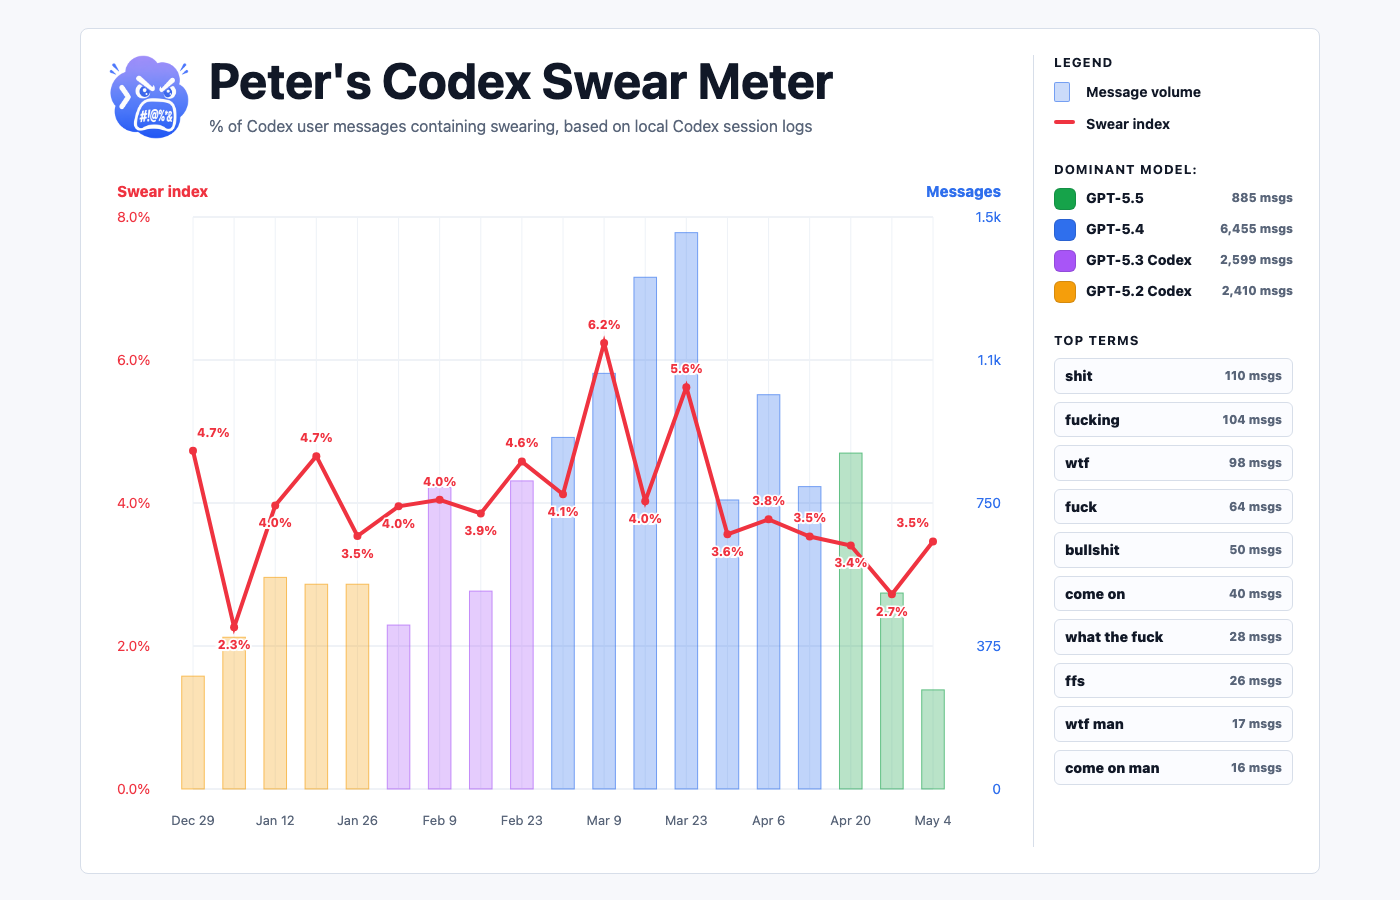
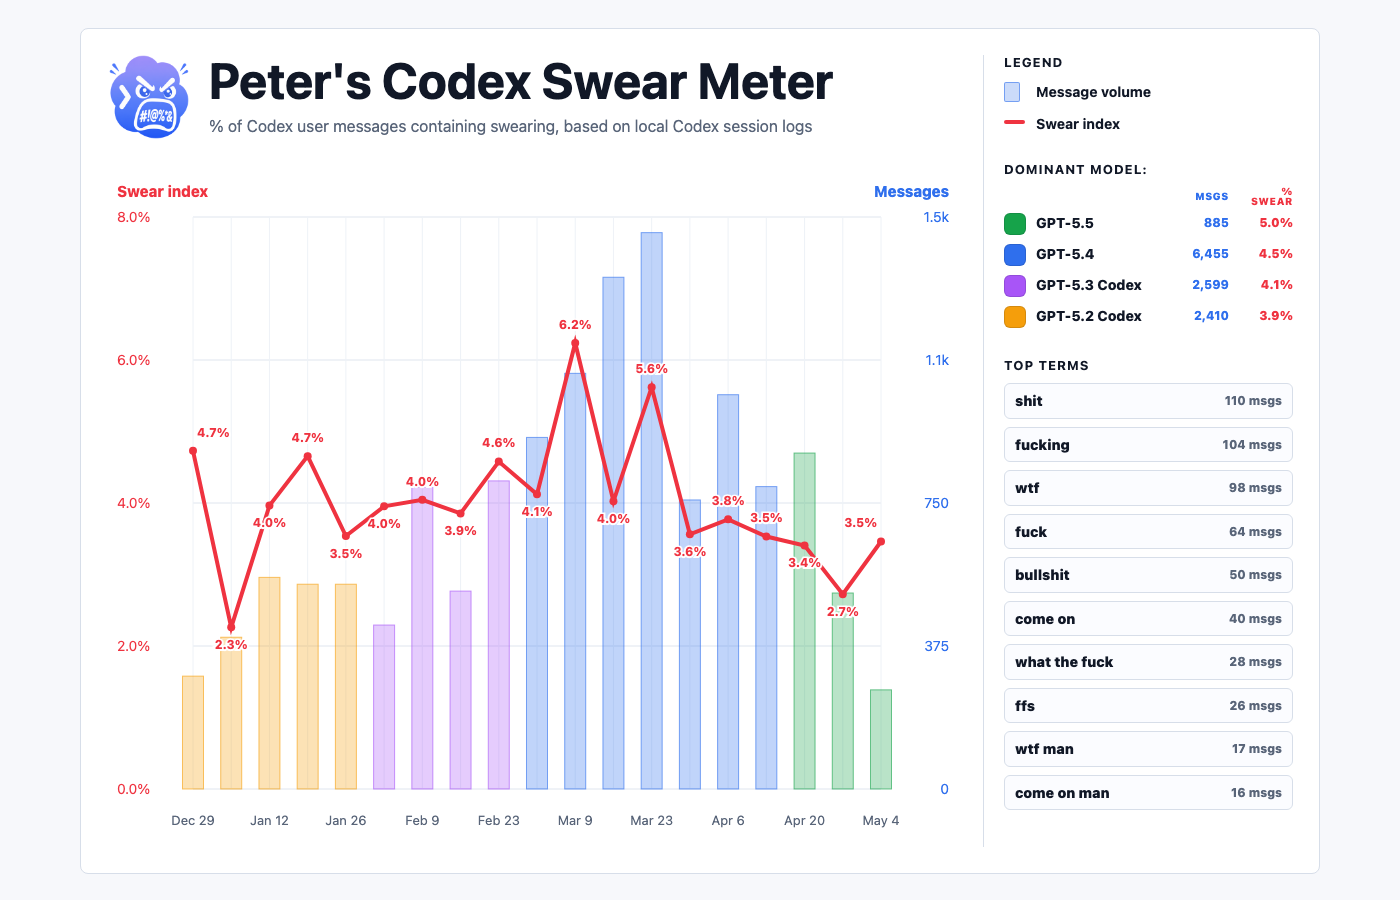
Show model swear rates in chart legend

diff --git a/skills/codex-swear-meter/scripts/codex_swear_meter.py b/skills/codex-swear-meter/scripts/codex_swear_meter.py
@@ -163,8 +163,8 @@ SPICE_TIMELINE_TEMPLATE = """<!doctype html>
       padding: 26px;
       overflow: hidden;
       display: grid;
-      grid-template-columns: minmax(0, 1fr) 260px;
-      column-gap: 22px;
+      grid-template-columns: minmax(0, 1fr) 310px;
+      column-gap: 24px;
     }
 
     .chart-top {
@@ -269,11 +269,41 @@ SPICE_TIMELINE_TEMPLATE = """<!doctype html>
       line-height: 1.3;
     }
 
+    .model-columns,
     .model-list li {
       display: grid;
-      grid-template-columns: 22px minmax(0, 1fr) auto;
+      grid-template-columns: 22px minmax(0, 1fr) 70px 54px;
       align-items: center;
       gap: 10px;
+    }
+
+    .model-columns {
+      margin: -2px 0 7px;
+      color: var(--muted);
+      font-size: 10px;
+      font-weight: 900;
+      letter-spacing: 0.06em;
+      line-height: 1;
+      text-transform: uppercase;
+    }
+
+    .model-columns span {
+      text-align: right;
+    }
+
+    .model-columns span:first-child {
+      grid-column: 3;
+    }
+
+    .model-columns .model-messages-label {
+      color: var(--volume);
+    }
+
+    .model-columns .model-rate-label {
+      color: var(--signal);
+    }
+
+    .model-list li {
       color: var(--ink);
       font-size: 14px;
       font-weight: 800;
@@ -281,10 +311,20 @@ SPICE_TIMELINE_TEMPLATE = """<!doctype html>
     }
 
     .model-count {
-      color: var(--muted);
+      color: var(--volume);
       font-size: 12px;
       font-weight: 800;
       line-height: 1.2;
+      text-align: right;
+      white-space: nowrap;
+    }
+
+    .model-rate {
+      color: var(--signal);
+      font-size: 12px;
+      font-weight: 900;
+      line-height: 1.2;
+      text-align: right;
       white-space: nowrap;
     }
 
@@ -474,6 +514,10 @@ SPICE_TIMELINE_TEMPLATE = """<!doctype html>
 
           <div>
             <h2>Dominant Model:</h2>
+            <div class="model-columns" aria-hidden="true">
+              <span class="model-messages-label">Msgs</span>
+              <span class="model-rate-label">% Swear</span>
+            </div>
             <ul class="model-list" id="modelLegend"></ul>
           </div>
 
@@ -792,22 +836,25 @@ SPICE_TIMELINE_TEMPLATE = """<!doctype html>
       data.forEach((row, index) => {
         const label = row.dominantModel || "unknown";
         const color = modelColor(label);
-        if (!byModel.has(color)) byModel.set(color, { label, color, first: index, last: index, messages: 0 });
+        if (!byModel.has(color)) byModel.set(color, { label, color, first: index, last: index, messages: 0, swearIndexMessages: 0 });
         else byModel.get(color).last = index;
       });
       data.forEach(row => {
         (row.models || []).forEach(model => {
           const modelColorKey = modelColor(model.label || "unknown");
           if (!byModel.has(modelColorKey)) return;
-          byModel.get(modelColorKey).messages += Number(model.messages || 0);
+          const current = byModel.get(modelColorKey);
+          current.messages += Number(model.messages || 0);
+          current.swearIndexMessages += Number(model.swearIndexMessages || 0);
         });
       });
       const models = Array.from(byModel.values()).sort((a, b) => b.last - a.last);
       document.getElementById("modelLegend").innerHTML = models.map(model => `
-        <li aria-label="${escapeHTML(`${shortModel(model.label)}: ${model.messages.toLocaleString()} messages`)}">
+        <li aria-label="${escapeHTML(`${shortModel(model.label)}: ${model.messages.toLocaleString()} messages, ${pct(model.messages ? model.swearIndexMessages / model.messages : 0)} swear index`)}">
           <i class="dot-key" title="${escapeHTML(shortModel(model.label))}" style="background: ${model.color}"></i>
           <span class="model-name">${escapeHTML(shortModel(model.label))}</span>
-          <span class="model-count">${model.messages.toLocaleString()} msgs</span>
+          <span class="model-count">${model.messages.toLocaleString()}</span>
+          <span class="model-rate">${pct(model.messages ? model.swearIndexMessages / model.messages : 0)}</span>
         </li>
       `).join("");
     }
@@ -1427,6 +1474,7 @@ def analyze_records(
     model_swear_index: Counter[str] = Counter()
     monthly_models: defaultdict[str, Counter[str]] = defaultdict(Counter)
     weekly_models: defaultdict[str, Counter[str]] = defaultdict(Counter)
+    weekly_model_swear_index: defaultdict[str, Counter[str]] = defaultdict(Counter)
     cwd_messages: Counter[str] = Counter()
     thread_messages: Counter[tuple[str, str]] = Counter()
 
@@ -1449,6 +1497,7 @@ def analyze_records(
                 model_swear[current_model] += 1
             if any(is_swear_index_hit(hit, spice_lexicon) for hit in spice_hits):
                 model_swear_index[current_model] += 1
+                weekly_model_swear_index[week][current_model] += 1
             write_spice_record(
                 record,
                 spice_hits,
@@ -1575,6 +1624,7 @@ def analyze_records(
         weekly_spice,
         monthly_models,
         weekly_models,
+        weekly_model_swear_index,
         model_messages,
         model_spicy,
         model_swear,
@@ -2196,6 +2246,7 @@ def write_spice_timeline_html(
     weekly_spice: dict[str, Counter[str]],
     _monthly_models: dict[str, Counter[str]],
     weekly_models: dict[str, Counter[str]],
+    weekly_model_swear_index: dict[str, Counter[str]],
     _model_messages: Counter[str],
     _model_spicy: Counter[str],
     _model_swear: Counter[str],
@@ -2204,7 +2255,7 @@ def write_spice_timeline_html(
     spice_lexicon: dict[str, Any],
     owner_name: str | None,
 ) -> None:
-    weekly = build_html_period_rows(weekly_spice, weekly_models)
+    weekly = build_html_period_rows(weekly_spice, weekly_models, weekly_model_swear_index)
     examples = top_swear_index_examples(
         spice_term_messages,
         spice_term_occurrences,
@@ -2263,6 +2314,7 @@ def top_swear_index_examples(
 def build_html_period_rows(
     spice_periods: dict[str, Counter[str]],
     model_periods: dict[str, Counter[str]],
+    model_swear_index_periods: dict[str, Counter[str]],
 ) -> list[dict[str, Any]]:
     rows: list[dict[str, Any]] = []
     for period in sorted(spice_periods):
@@ -2282,7 +2334,11 @@ def build_html_period_rows(
                 "monthKey": f"{start_date.year}-{start_date.month:02d}" if start_date else "",
                 "total": total,
                 "models": [
-                    {"label": label or "unknown", "messages": count}
+                    {
+                        "label": label or "unknown",
+                        "messages": count,
+                        "swearIndexMessages": model_swear_index_periods.get(period, Counter())[label],
+                    }
                     for label, count in model_periods.get(period, Counter()).most_common()
                 ],
                 "spicyMessages": spice_counts["spicy_messages"],

diff --git a/src/codex_log_tone_audit/audit.py b/src/codex_log_tone_audit/audit.py
@@ -162,8 +162,8 @@ SPICE_TIMELINE_TEMPLATE = """<!doctype html>
       padding: 26px;
       overflow: hidden;
       display: grid;
-      grid-template-columns: minmax(0, 1fr) 260px;
-      column-gap: 22px;
+      grid-template-columns: minmax(0, 1fr) 310px;
+      column-gap: 24px;
     }
 
     .chart-top {
@@ -268,11 +268,41 @@ SPICE_TIMELINE_TEMPLATE = """<!doctype html>
       line-height: 1.3;
     }
 
+    .model-columns,
     .model-list li {
       display: grid;
-      grid-template-columns: 22px minmax(0, 1fr) auto;
+      grid-template-columns: 22px minmax(0, 1fr) 70px 54px;
       align-items: center;
       gap: 10px;
+    }
+
+    .model-columns {
+      margin: -2px 0 7px;
+      color: var(--muted);
+      font-size: 10px;
+      font-weight: 900;
+      letter-spacing: 0.06em;
+      line-height: 1;
+      text-transform: uppercase;
+    }
+
+    .model-columns span {
+      text-align: right;
+    }
+
+    .model-columns span:first-child {
+      grid-column: 3;
+    }
+
+    .model-columns .model-messages-label {
+      color: var(--volume);
+    }
+
+    .model-columns .model-rate-label {
+      color: var(--signal);
+    }
+
+    .model-list li {
       color: var(--ink);
       font-size: 14px;
       font-weight: 800;
@@ -280,10 +310,20 @@ SPICE_TIMELINE_TEMPLATE = """<!doctype html>
     }
 
     .model-count {
-      color: var(--muted);
+      color: var(--volume);
       font-size: 12px;
       font-weight: 800;
       line-height: 1.2;
+      text-align: right;
+      white-space: nowrap;
+    }
+
+    .model-rate {
+      color: var(--signal);
+      font-size: 12px;
+      font-weight: 900;
+      line-height: 1.2;
+      text-align: right;
       white-space: nowrap;
     }
 
@@ -473,6 +513,10 @@ SPICE_TIMELINE_TEMPLATE = """<!doctype html>
 
           <div>
             <h2>Dominant Model:</h2>
+            <div class="model-columns" aria-hidden="true">
+              <span class="model-messages-label">Msgs</span>
+              <span class="model-rate-label">% Swear</span>
+            </div>
             <ul class="model-list" id="modelLegend"></ul>
           </div>
 
@@ -791,22 +835,25 @@ SPICE_TIMELINE_TEMPLATE = """<!doctype html>
       data.forEach((row, index) => {
         const label = row.dominantModel || "unknown";
         const color = modelColor(label);
-        if (!byModel.has(color)) byModel.set(color, { label, color, first: index, last: index, messages: 0 });
+        if (!byModel.has(color)) byModel.set(color, { label, color, first: index, last: index, messages: 0, swearIndexMessages: 0 });
         else byModel.get(color).last = index;
       });
       data.forEach(row => {
         (row.models || []).forEach(model => {
           const modelColorKey = modelColor(model.label || "unknown");
           if (!byModel.has(modelColorKey)) return;
-          byModel.get(modelColorKey).messages += Number(model.messages || 0);
+          const current = byModel.get(modelColorKey);
+          current.messages += Number(model.messages || 0);
+          current.swearIndexMessages += Number(model.swearIndexMessages || 0);
         });
       });
       const models = Array.from(byModel.values()).sort((a, b) => b.last - a.last);
       document.getElementById("modelLegend").innerHTML = models.map(model => `
-        <li aria-label="${escapeHTML(`${shortModel(model.label)}: ${model.messages.toLocaleString()} messages`)}">
+        <li aria-label="${escapeHTML(`${shortModel(model.label)}: ${model.messages.toLocaleString()} messages, ${pct(model.messages ? model.swearIndexMessages / model.messages : 0)} swear index`)}">
           <i class="dot-key" title="${escapeHTML(shortModel(model.label))}" style="background: ${model.color}"></i>
           <span class="model-name">${escapeHTML(shortModel(model.label))}</span>
-          <span class="model-count">${model.messages.toLocaleString()} msgs</span>
+          <span class="model-count">${model.messages.toLocaleString()}</span>
+          <span class="model-rate">${pct(model.messages ? model.swearIndexMessages / model.messages : 0)}</span>
         </li>
       `).join("");
     }
@@ -1426,6 +1473,7 @@ def analyze_records(
     model_swear_index: Counter[str] = Counter()
     monthly_models: defaultdict[str, Counter[str]] = defaultdict(Counter)
     weekly_models: defaultdict[str, Counter[str]] = defaultdict(Counter)
+    weekly_model_swear_index: defaultdict[str, Counter[str]] = defaultdict(Counter)
     cwd_messages: Counter[str] = Counter()
     thread_messages: Counter[tuple[str, str]] = Counter()
 
@@ -1448,6 +1496,7 @@ def analyze_records(
                 model_swear[current_model] += 1
             if any(is_swear_index_hit(hit, spice_lexicon) for hit in spice_hits):
                 model_swear_index[current_model] += 1
+                weekly_model_swear_index[week][current_model] += 1
             write_spice_record(
                 record,
                 spice_hits,
@@ -1574,6 +1623,7 @@ def analyze_records(
         weekly_spice,
         monthly_models,
         weekly_models,
+        weekly_model_swear_index,
         model_messages,
         model_spicy,
         model_swear,
@@ -2195,6 +2245,7 @@ def write_spice_timeline_html(
     weekly_spice: dict[str, Counter[str]],
     _monthly_models: dict[str, Counter[str]],
     weekly_models: dict[str, Counter[str]],
+    weekly_model_swear_index: dict[str, Counter[str]],
     _model_messages: Counter[str],
     _model_spicy: Counter[str],
     _model_swear: Counter[str],
@@ -2203,7 +2254,7 @@ def write_spice_timeline_html(
     spice_lexicon: dict[str, Any],
     owner_name: str | None,
 ) -> None:
-    weekly = build_html_period_rows(weekly_spice, weekly_models)
+    weekly = build_html_period_rows(weekly_spice, weekly_models, weekly_model_swear_index)
     examples = top_swear_index_examples(
         spice_term_messages,
         spice_term_occurrences,
@@ -2262,6 +2313,7 @@ def top_swear_index_examples(
 def build_html_period_rows(
     spice_periods: dict[str, Counter[str]],
     model_periods: dict[str, Counter[str]],
+    model_swear_index_periods: dict[str, Counter[str]],
 ) -> list[dict[str, Any]]:
     rows: list[dict[str, Any]] = []
     for period in sorted(spice_periods):
@@ -2281,7 +2333,11 @@ def build_html_period_rows(
                 "monthKey": f"{start_date.year}-{start_date.month:02d}" if start_date else "",
                 "total": total,
                 "models": [
-                    {"label": label or "unknown", "messages": count}
+                    {
+                        "label": label or "unknown",
+                        "messages": count,
+                        "swearIndexMessages": model_swear_index_periods.get(period, Counter())[label],
+                    }
                     for label, count in model_periods.get(period, Counter()).most_common()
                 ],
                 "spicyMessages": spice_counts["spicy_messages"],

diff --git a/tests/test_audit.py b/tests/test_audit.py
@@ -1,12 +1,14 @@
 import json
 import tempfile
 import unittest
+from collections import Counter
 from pathlib import Path
 
 from codex_log_tone_audit.audit import (
     DEFAULT_LEXICON,
     DEFAULT_LOGO,
     DEFAULT_SWEAR_LEXICON,
+    build_html_period_rows,
     chart_title,
     compile_patterns,
     diff_new_records,
@@ -104,6 +106,16 @@ class AuditTests(unittest.TestCase):
 
     def test_week_key(self):
         self.assertEqual(week_key("2026-03-11T17:44:49.123Z"), "2026-W11")
+
+    def test_html_period_rows_include_model_swear_index_counts(self):
+        rows = build_html_period_rows(
+            {"2026-W01": Counter({"total_messages": 10, "swear_index_messages": 2})},
+            {"2026-W01": Counter({"gpt-5.5 (xhigh)": 10})},
+            {"2026-W01": Counter({"gpt-5.5 (xhigh)": 2})},
+        )
+
+        self.assertEqual(rows[0]["models"][0]["messages"], 10)
+        self.assertEqual(rows[0]["models"][0]["swearIndexMessages"], 2)
 
     def test_model_label(self):
         self.assertEqual(model_label("gpt-5.4", "xhigh"), "gpt-5.4 (xhigh)")
@@ -230,6 +242,7 @@ class AuditTests(unittest.TestCase):
             self.assertIn("% of Codex user messages containing swearing", html)
             self.assertIn('class="chart-logo"', html)
             self.assertIn("data:image/png;base64,", html)
+            self.assertIn("model-rate", html)
             self.assertIn("drawSwearLabels", html)
             self.assertEqual(summary["total_user_messages"], 1)
             self.assertEqual(summary["spice"]["swear_index_messages"], 1)